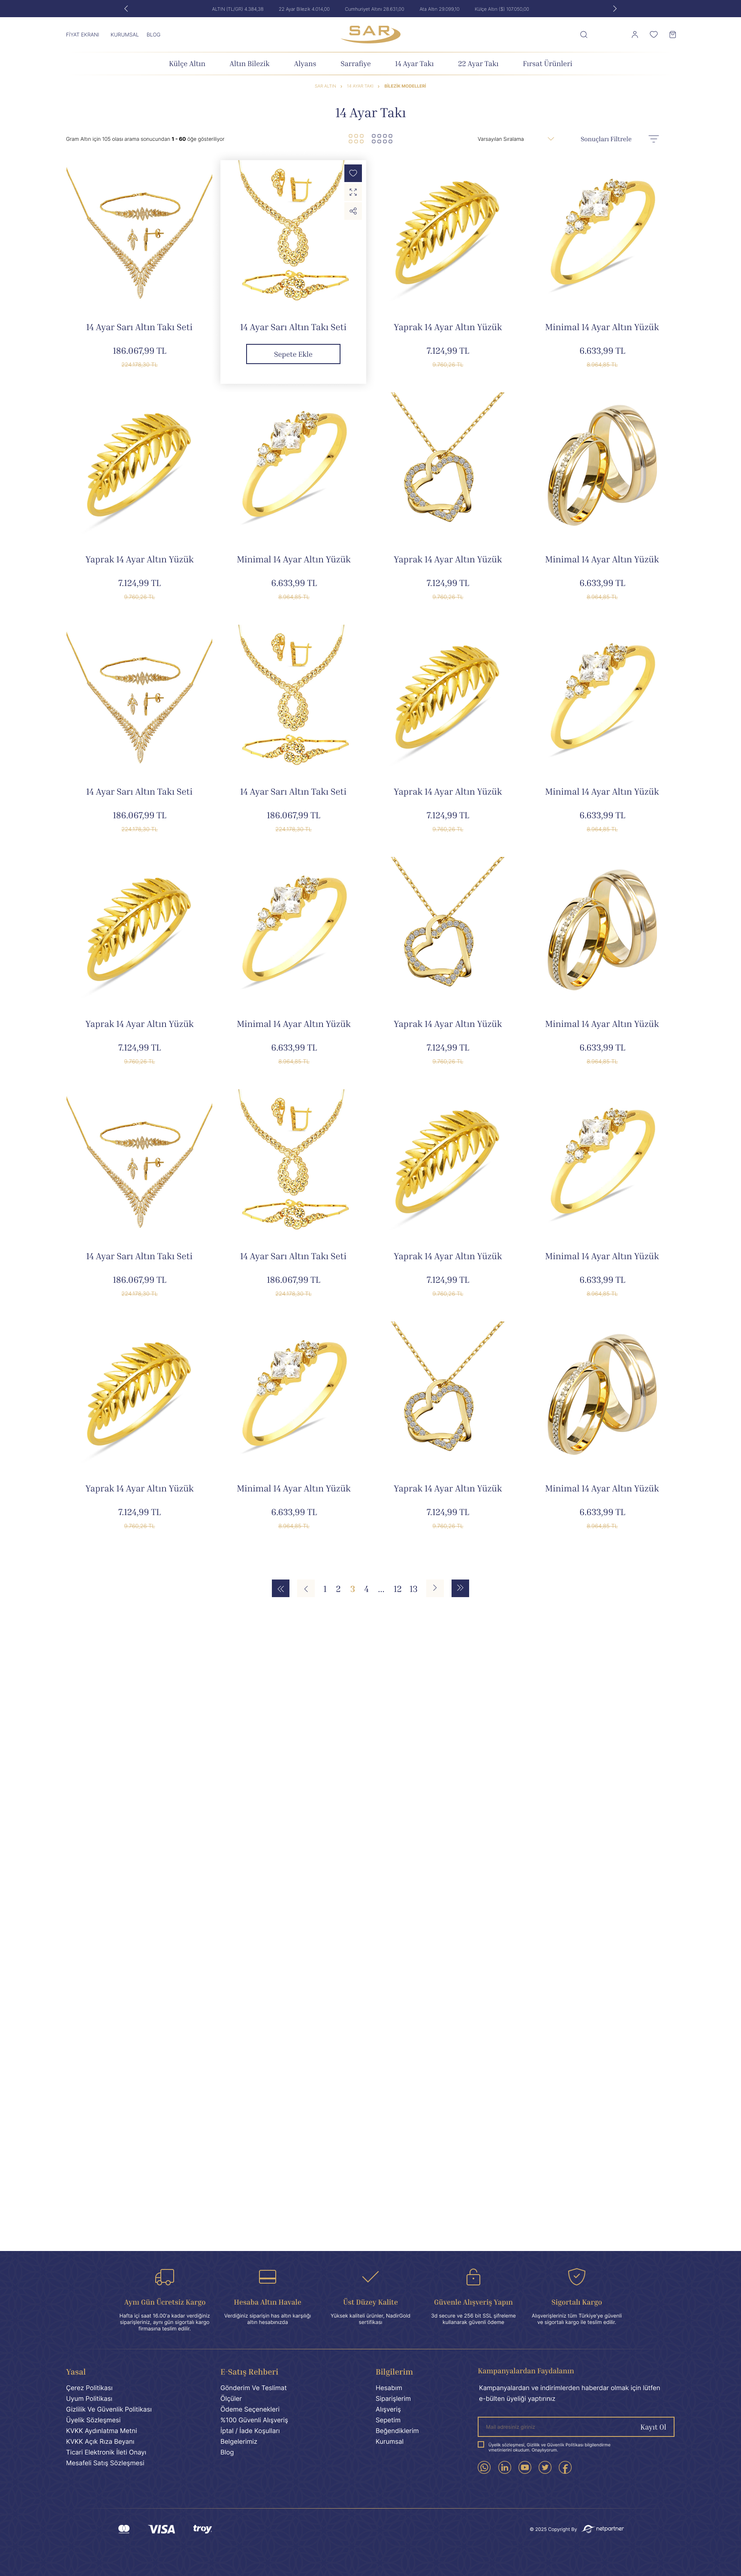
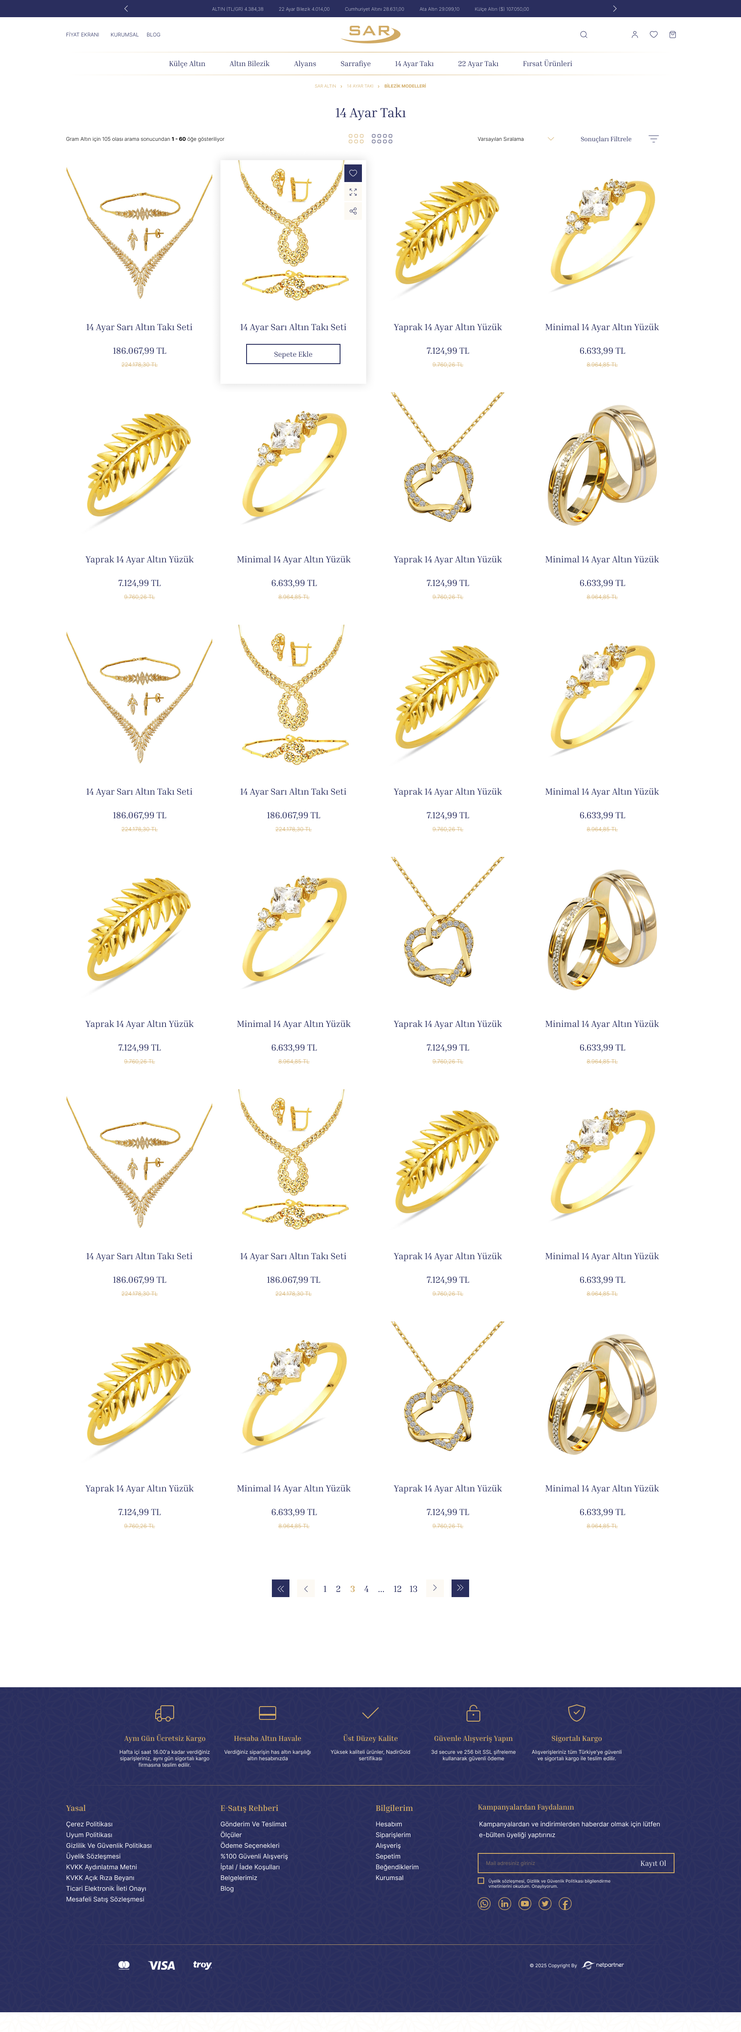
Sayfa düzeni güncellendi: kenar boşlukları kaldırıldı ve görseller değiştirildi

diff --git a/index.html b/index.html
@@ -15,12 +15,13 @@
             font-family: 'Segoe UI', Tahoma, Geneva, Verdana, sans-serif;
             background: linear-gradient(135deg, #252525 0%, #232323 100%);
             min-height: 100vh;
-            padding: 20px;
+            padding: 0;
         }
 
         .container {
-            max-width: 1400px;
-            margin: 0 auto;
+            max-width: 100%;
+            margin: 0;
+            padding: 20px;
         }
 
         h1 {
@@ -34,7 +35,7 @@
         .section {
             margin-bottom: 50px;
             background: rgba(90, 90, 90, 0.8);
-            border-radius: 15px;
+            border-radius: 0;
             padding: 30px;
             box-shadow: 0 8px 32px rgba(0,0,0,0.3);
         }
@@ -157,7 +158,7 @@
             { src: 'desktop/sar-1.jpg'},
             { src: 'desktop/sar-2.jpg'},
             { src: 'desktop/sar-4.jpg'},
-            { src: 'desktop/sara-3.jpg'}
+            { src: 'desktop/sar-3.jpg'}
         ];
 
         // Mobile görselleri
